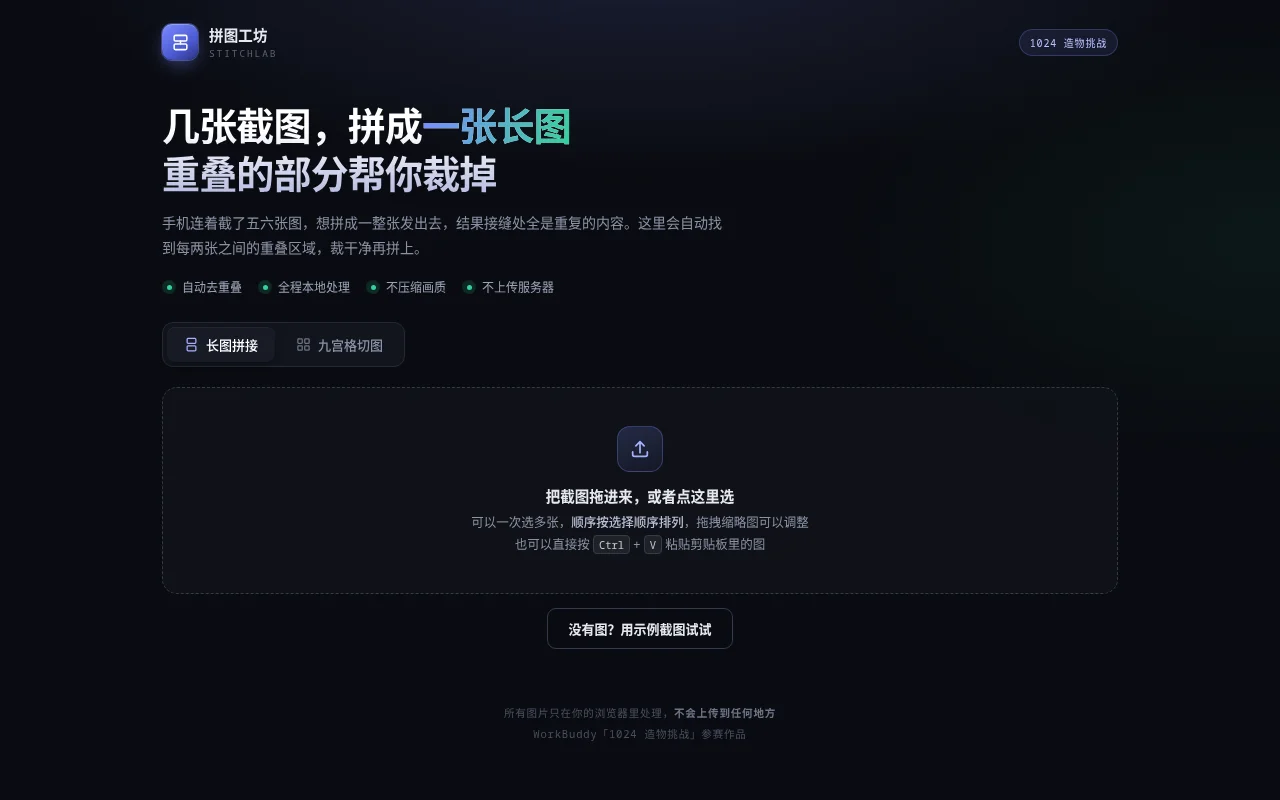
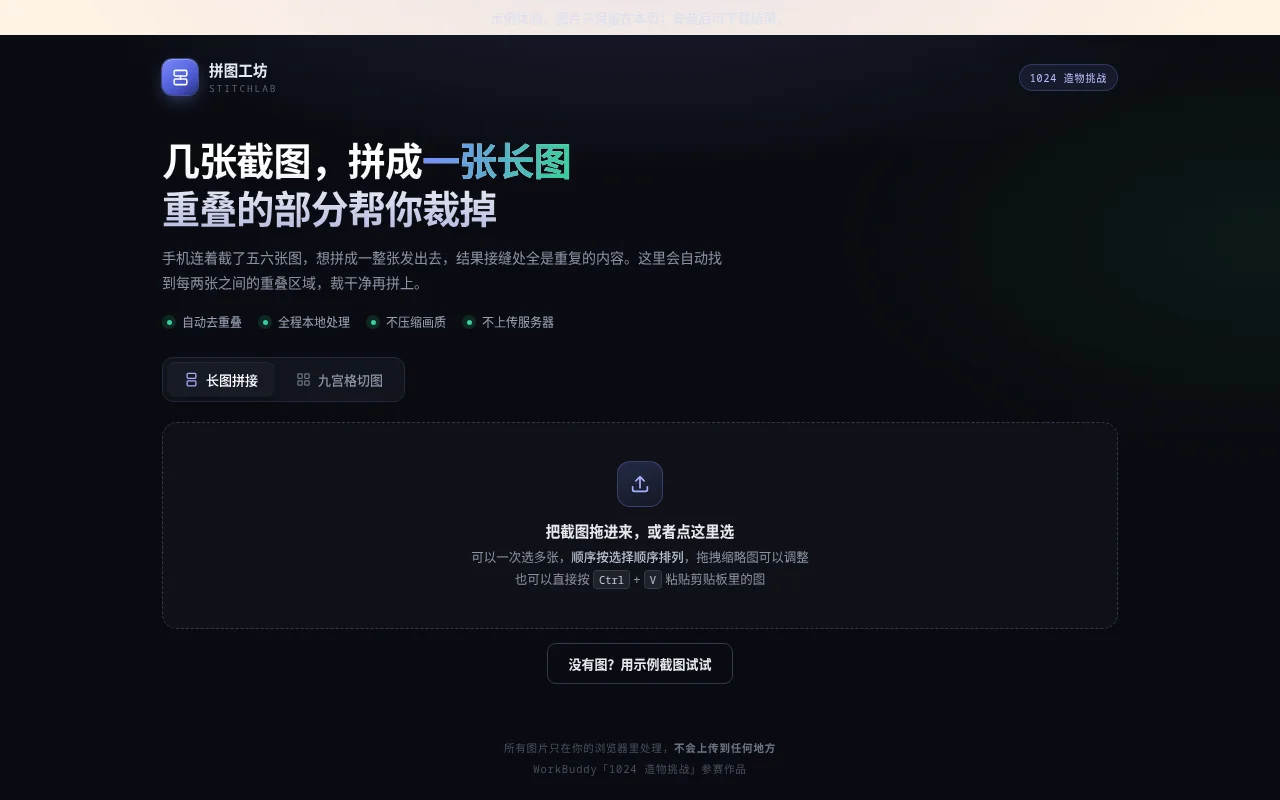
Add StitchLab template

Changed region(s): [[0.0, 0.0, 1.0, 0.5], [0.375, 0.5312, 0.625, 0.8438], [0.4062, 0.875, 0.5938, 0.9688]]

diff --git a/wb1024-c573-dd3b766d/showcase/preview.html b/wb1024-c573-dd3b766d/showcase/preview.html
@@ -207,7 +207,7 @@ footer b{color:#6b7488;font-weight:600}
 }
 </style>
 </head>
-<body>
+<body><div style="text-align:center;padding:8px;background:#fff3e4;font-size:13px">示例体验，图片只保留在本页；安装后可下载结果。</div>
 <div class="bgfx"></div>
 <div class="gridfx"></div>
 
@@ -1100,5 +1100,5 @@ if (/[?&]grid/.test(location.search)) {
 }
 })();
 </script>
-</body>
+<script>document.addEventListener("click",function(e){if(e.target.closest("#dlAll,#dlBtn,.g3 .cell")){e.stopImmediatePropagation();e.preventDefault();alertPreview();}},true);function alertPreview(){var n=document.getElementById("previewNotice");if(!n){n=document.createElement("div");n.id="previewNotice";n.style="position:fixed;bottom:12px;left:20%;right:20%;background:#333;color:white;text-align:center;padding:10px;z-index:1000";document.body.appendChild(n)}n.textContent="示例预览不提供下载，安装后可保存图片";setTimeout(function(){n.remove()},3000)}</script></body>
 </html>
